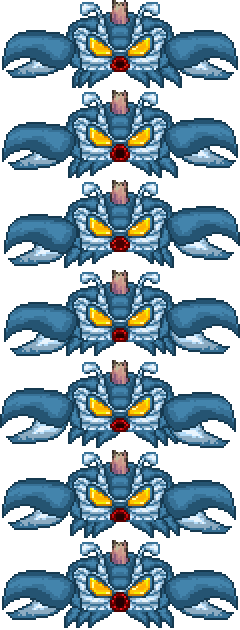
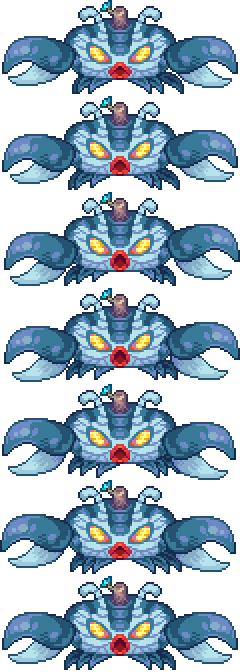
Cicadian improvements, swap BGroves underground/surface music

diff --git a/Content/NPCs/BasicEnemies/Cicadian.cs b/Content/NPCs/BasicEnemies/Cicadian.cs
@@ -1,8 +1,10 @@
 using ITD.Content.Projectiles.Hostile;
 using Microsoft.Xna.Framework;
+using Microsoft.Xna.Framework.Graphics;
 using System;
 using Terraria;
 using Terraria.DataStructures;
+using Terraria.GameContent;
 using Terraria.ID;
 using Terraria.ModLoader;
 using Terraria.UI;
@@ -18,7 +20,8 @@ namespace ITD.Content.NPCs.BasicEnemies
             Background,
             Transition,
             Chasing,
-
+            Charging,
+            Dashing,
         }
         private ActionState AI_State;
         private float transitionProgress;
@@ -28,7 +31,9 @@ namespace ITD.Content.NPCs.BasicEnemies
         public bool chopped = false;
         public override void SetStaticDefaults()
         {
-            Main.npcFrameCount[NPC.type] = 7;
+            NPCID.Sets.TrailCacheLength[Type] = 5;
+            NPCID.Sets.TrailingMode[Type] = 0;
+            Main.npcFrameCount[Type] = 7;
         }
         public override void SetDefaults()
         {
@@ -46,11 +51,21 @@ namespace ITD.Content.NPCs.BasicEnemies
             NPC.aiStyle = -1;
             NPC.noTileCollide = true;
         }
-        // this is a comment.
+        public override void ModifyHoverBoundingBox(ref Rectangle boundingBox)
+        {
+            if (AI_State == ActionState.Background)
+            {
+                boundingBox = Rectangle.Empty;
+            }
+            else
+            {
+                boundingBox = NPC.getRect();
+            }
+        }
         public override void AI()
         {
-            Main.npc[tree].ai[1] = NPC.Center.X + NPC.direction * 2f;
-            Main.npc[tree].ai[2] = NPC.Center.Y - 54f;
+            Main.npc[tree].ai[1] = NPC.Center.X + NPC.direction * 4f;
+            Main.npc[tree].ai[2] = NPC.Center.Y - 50f;
             if (!Main.npc[tree].active && !chopped)
             {
                 chopped = true;
@@ -168,7 +183,9 @@ namespace ITD.Content.NPCs.BasicEnemies
         public override void OnSpawn(IEntitySource source)
         {
             anchorPoint = NPC.position + new Vector2(0f, NPC.height / 2f);
-            tree = NPC.NewNPC(NPC.GetSource_FromThis(), (int)NPC.Center.X, (int)NPC.Center.Y, ModContent.NPCType<CicadianTree>(), ai0: 0f, ai1: NPC.Center.X, ai2: NPC.Center.Y);
+            tree = (int)NPC.ai[0];
+            //Main.NewText(NPC.whoAmI);
+            //tree = NPC.NewNPC(NPC.GetSource_FromThis(), (int)NPC.Center.X, (int)NPC.Center.Y, ModContent.NPCType<CicadianTree>(), NPC.whoAmI - NPC.whoAmI == 0 ? 0 : 1, ai0: 0f, ai1: NPC.Center.X, ai2: NPC.Center.Y);
         }
         public override void HitEffect(NPC.HitInfo hit)
         {
@@ -206,7 +223,7 @@ namespace ITD.Content.NPCs.BasicEnemies
                     NPC.frameCounter = 0;
                     NPC.frame.Y += frameHeight;
 
-                    if (NPC.frame.Y > frameHeight * Main.npcFrameCount[Type] - 2)
+                    if (NPC.frame.Y > frameHeight * (Main.npcFrameCount[Type] - 2))
                     {
                         NPC.frame.Y = frameHeight;
                     }
@@ -214,8 +231,23 @@ namespace ITD.Content.NPCs.BasicEnemies
             }
             if (AI_State == ActionState.Background)
             {
-                NPC.frame.Y = 540;
+                NPC.frame.Y = 576;
             }
+        }
+        public override bool PreDraw(SpriteBatch spriteBatch, Vector2 screenPos, Color drawColor)
+        {
+            if (AI_State == ActionState.Dashing)
+            {
+                Texture2D texture = TextureAssets.Npc[Type].Value;
+                Vector2 drawOrigin = texture.Size() / 2f;
+                for (int k = 0; k < NPC.oldPos.Length; k++)
+                {
+                    Vector2 drawPos = NPC.oldPos[k] - screenPos + drawOrigin + new Vector2(0f, NPC.gfxOffY + DrawOffsetY);
+                    Color color = drawColor * ((NPC.oldPos.Length - k) / (float)NPC.oldPos.Length);
+                    spriteBatch.Draw(texture, drawPos, null, color, 0f, drawOrigin, NPC.scale, SpriteEffects.None, 0);
+                }
+            }
+            return true;
         }
         public override Color? GetAlpha(Color drawColor)
         {

diff --git a/Content/Biomes/BlueshroomGrovesBiome.cs b/Content/Biomes/BlueshroomGrovesBiome.cs
@@ -13,7 +13,7 @@ namespace ITD.Content.Biomes
         public override ModUndergroundBackgroundStyle UndergroundBackgroundStyle => ModContent.GetInstance<BlueshroomGrovesBackgroundStyle>();
 
         // Select Music
-        public override int Music => MusicLoader.GetMusicSlot(Mod, "Content/Music/WanderingTheBlueshrooms");
+        public override int Music => MusicLoader.GetMusicSlot(Mod, "Content/Music/BlueshroomGroves");
 
         // Sets how the Scene Effect associated with this biome will be displayed with respect to vanilla Scene Effects. For more information see SceneEffectPriority & its values.
         public override SceneEffectPriority Priority => SceneEffectPriority.BiomeHigh; // We have set the SceneEffectPriority to be BiomeLow for purpose of example, however default behavior is BiomeLow.

diff --git a/Content/Biomes/BlueshroomGrovesSurfaceBiome.cs b/Content/Biomes/BlueshroomGrovesSurfaceBiome.cs
@@ -13,7 +13,7 @@ namespace ITD.Content.Biomes
         public override ModSurfaceBackgroundStyle SurfaceBackgroundStyle => ModContent.GetInstance<BlueshroomGrovesSurfaceBackgroundStyle>();
 
         // Select Music
-        public override int Music => MusicLoader.GetMusicSlot(Mod, "Content/Music/BlueshroomGroves");
+        public override int Music => MusicLoader.GetMusicSlot(Mod, "Content/Music/WanderingTheBlueshrooms");
 
         // Sets how the Scene Effect associated with this biome will be displayed with respect to vanilla Scene Effects. For more information see SceneEffectPriority & its values.
         public override SceneEffectPriority Priority => SceneEffectPriority.BiomeHigh; // We have set the SceneEffectPriority to be BiomeLow for purpose of example, however default behavior is BiomeLow.

diff --git a/Content/NPCs/BasicEnemies/CicadianTree.cs b/Content/NPCs/BasicEnemies/CicadianTree.cs
@@ -36,8 +36,14 @@ namespace ITD.Content.NPCs.BasicEnemies
             NPC.value = 0;
             NPC.aiStyle = -1;
         }
+        public override void ModifyHoverBoundingBox(ref Rectangle boundingBox)
+        {
+            boundingBox = Rectangle.Empty;
+        }
         public override void OnSpawn(IEntitySource source)
         {
+            NPC.Center += new Vector2(0, 40);
+            NPC.NewNPC(NPC.GetSource_FromThis(), (int)NPC.Center.X, (int)NPC.Center.Y, ModContent.NPCType<Cicadian>(), NPC.whoAmI, NPC.whoAmI);
             BasePosition = NPC.Center;
         }
         public override void AI()
